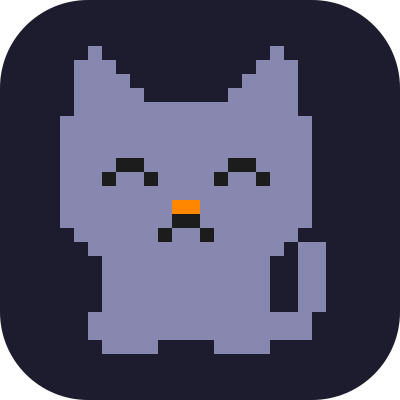
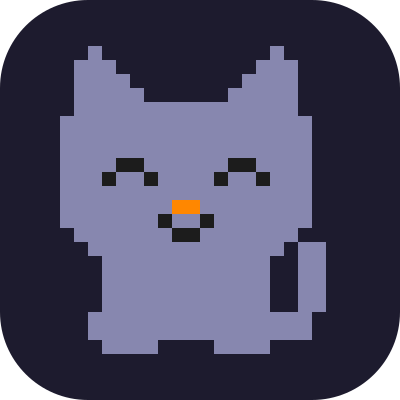
fix(brand): the cat was frowning
Rows count downwards, so a smile puts its corners on the upper row. The two
mouths were defined the other way round.

Changed region(s): [[0.39, 0.51, 0.54, 0.63]]

diff --git a/cmd/deja/statscard.go b/cmd/deja/statscard.go
@@ -39,7 +39,7 @@ func renderStatsCard(r stats.Report) string {
 	b.WriteString(`<g font-family="` + statsCardFont + `" fill="#d7f5e2">` + "\n")
 	// the cat from assets/logo.svg, then the wordmark. Pixel rects rather than
 	// a scaled drawing: the mark is the same 24x22 grid wherever it appears.
-	b.WriteString(`<g transform="translate(36,25) scale(1.15)"><g fill="#8787af">  <rect x="4" y="0" width="1" height="1"/>  <rect x="17" y="0" width="1" height="1"/>  <rect x="3" y="1" width="3" height="1"/>  <rect x="16" y="1" width="3" height="1"/>  <rect x="3" y="2" width="4" height="1"/>  <rect x="15" y="2" width="4" height="1"/>  <rect x="3" y="3" width="5" height="1"/>  <rect x="14" y="3" width="5" height="1"/>  <rect x="3" y="4" width="16" height="1"/>  <rect x="2" y="5" width="18" height="1"/>  <rect x="2" y="6" width="18" height="1"/>  <rect x="2" y="7" width="18" height="1"/>  <rect x="2" y="8" width="4" height="1"/>  <rect x="8" y="8" width="6" height="1"/>  <rect x="16" y="8" width="4" height="1"/>  <rect x="2" y="9" width="3" height="1"/>  <rect x="6" y="9" width="2" height="1"/>  <rect x="9" y="9" width="4" height="1"/>  <rect x="14" y="9" width="2" height="1"/>  <rect x="17" y="9" width="3" height="1"/>  <rect x="2" y="10" width="18" height="1"/>  <rect x="2" y="11" width="8" height="1"/>  <rect x="12" y="11" width="8" height="1"/>  <rect x="2" y="12" width="8" height="1"/>  <rect x="12" y="12" width="8" height="1"/>  <rect x="3" y="13" width="6" height="1"/>  <rect x="10" y="13" width="2" height="1"/>  <rect x="13" y="13" width="6" height="1"/>  <rect x="4" y="14" width="14" height="1"/>  <rect x="19" y="14" width="2" height="1"/>  <rect x="5" y="15" width="12" height="1"/>  <rect x="19" y="15" width="2" height="1"/>  <rect x="5" y="16" width="12" height="1"/>  <rect x="19" y="16" width="2" height="1"/>  <rect x="5" y="17" width="12" height="1"/>  <rect x="19" y="17" width="2" height="1"/>  <rect x="5" y="18" width="12" height="1"/>  <rect x="19" y="18" width="2" height="1"/>  <rect x="4" y="19" width="16" height="1"/>  <rect x="4" y="20" width="16" height="1"/>  <rect x="5" y="21" width="4" height="1"/>  <rect x="13" y="21" width="4" height="1"/></g><g fill="#1c1c1c">  <rect x="6" y="8" width="2" height="1"/>  <rect x="14" y="8" width="2" height="1"/>  <rect x="5" y="9" width="1" height="1"/>  <rect x="8" y="9" width="1" height="1"/>  <rect x="13" y="9" width="1" height="1"/>  <rect x="16" y="9" width="1" height="1"/>  <rect x="10" y="12" width="2" height="1"/>  <rect x="9" y="13" width="1" height="1"/>  <rect x="12" y="13" width="1" height="1"/></g><g fill="#ff8700">  <rect x="10" y="11" width="2" height="1"/></g></g>` + "\n")
+	b.WriteString(`<g transform="translate(36,25) scale(1.15)"><g fill="#8787af">  <rect x="4" y="0" width="1" height="1"/>  <rect x="17" y="0" width="1" height="1"/>  <rect x="3" y="1" width="3" height="1"/>  <rect x="16" y="1" width="3" height="1"/>  <rect x="3" y="2" width="4" height="1"/>  <rect x="15" y="2" width="4" height="1"/>  <rect x="3" y="3" width="5" height="1"/>  <rect x="14" y="3" width="5" height="1"/>  <rect x="3" y="4" width="16" height="1"/>  <rect x="2" y="5" width="18" height="1"/>  <rect x="2" y="6" width="18" height="1"/>  <rect x="2" y="7" width="18" height="1"/>  <rect x="2" y="8" width="4" height="1"/>  <rect x="8" y="8" width="6" height="1"/>  <rect x="16" y="8" width="4" height="1"/>  <rect x="2" y="9" width="3" height="1"/>  <rect x="6" y="9" width="2" height="1"/>  <rect x="9" y="9" width="4" height="1"/>  <rect x="14" y="9" width="2" height="1"/>  <rect x="17" y="9" width="3" height="1"/>  <rect x="2" y="10" width="18" height="1"/>  <rect x="2" y="11" width="8" height="1"/>  <rect x="12" y="11" width="8" height="1"/>  <rect x="2" y="12" width="7" height="1"/>  <rect x="10" y="12" width="2" height="1"/>  <rect x="13" y="12" width="7" height="1"/>  <rect x="3" y="13" width="7" height="1"/>  <rect x="12" y="13" width="7" height="1"/>  <rect x="4" y="14" width="14" height="1"/>  <rect x="19" y="14" width="2" height="1"/>  <rect x="5" y="15" width="12" height="1"/>  <rect x="19" y="15" width="2" height="1"/>  <rect x="5" y="16" width="12" height="1"/>  <rect x="19" y="16" width="2" height="1"/>  <rect x="5" y="17" width="12" height="1"/>  <rect x="19" y="17" width="2" height="1"/>  <rect x="5" y="18" width="12" height="1"/>  <rect x="19" y="18" width="2" height="1"/>  <rect x="4" y="19" width="16" height="1"/>  <rect x="4" y="20" width="16" height="1"/>  <rect x="5" y="21" width="4" height="1"/>  <rect x="13" y="21" width="4" height="1"/></g><g fill="#1c1c1c">  <rect x="6" y="8" width="2" height="1"/>  <rect x="14" y="8" width="2" height="1"/>  <rect x="5" y="9" width="1" height="1"/>  <rect x="8" y="9" width="1" height="1"/>  <rect x="13" y="9" width="1" height="1"/>  <rect x="16" y="9" width="1" height="1"/>  <rect x="9" y="12" width="1" height="1"/>  <rect x="12" y="12" width="1" height="1"/>  <rect x="10" y="13" width="2" height="1"/></g><g fill="#ff8700">  <rect x="10" y="11" width="2" height="1"/></g></g>` + "\n")
 	cardText(&b, 70, 48, 15, "700", "deja-vu", "#4af08b", "letter-spacing=\"0.5\"")
 	cardText(&b, 145, 48, 13, "400", "· agent history", "#5d8a6e")
 	cardText(&b, 760, 48, 13, "400", valueOrDash(r.DateRange.Start)+" – "+valueOrDash(r.DateRange.End), "#5d8a6e", "text-anchor=\"end\"")

diff --git a/cmd/deja/logo.go b/cmd/deja/logo.go
@@ -31,7 +31,7 @@ var catArt = []string{
 	"  \x1b[38;5;103m██████████████████\x1b[0m    \x1b[0m",
 	"  \x1b[38;5;103m███\x1b[38;5;103m\x1b[48;5;234m▀\x1b[0m\x1b[38;5;234m\x1b[48;5;103m▀\x1b[0m\x1b[38;5;234m\x1b[48;5;103m▀\x1b[0m\x1b[38;5;103m\x1b[48;5;234m▀\x1b[0m\x1b[38;5;103m████\x1b[38;5;103m\x1b[48;5;234m▀\x1b[0m\x1b[38;5;234m\x1b[48;5;103m▀\x1b[0m\x1b[38;5;234m\x1b[48;5;103m▀\x1b[0m\x1b[38;5;103m\x1b[48;5;234m▀\x1b[0m\x1b[38;5;103m███\x1b[0m    \x1b[0m",
 	"  \x1b[38;5;103m████████\x1b[38;5;103m\x1b[48;5;208m▀\x1b[0m\x1b[38;5;103m\x1b[48;5;208m▀\x1b[0m\x1b[38;5;103m████████\x1b[0m    \x1b[0m",
-	"  \x1b[38;5;103m▀██████\x1b[38;5;103m\x1b[48;5;234m▀\x1b[0m\x1b[38;5;234m\x1b[48;5;103m▀\x1b[0m\x1b[38;5;234m\x1b[48;5;103m▀\x1b[0m\x1b[38;5;103m\x1b[48;5;234m▀\x1b[0m\x1b[38;5;103m██████▀\x1b[0m    \x1b[0m",
+	"  \x1b[38;5;103m▀██████\x1b[38;5;234m\x1b[48;5;103m▀\x1b[0m\x1b[38;5;103m\x1b[48;5;234m▀\x1b[0m\x1b[38;5;103m\x1b[48;5;234m▀\x1b[0m\x1b[38;5;234m\x1b[48;5;103m▀\x1b[0m\x1b[38;5;103m██████▀\x1b[0m    \x1b[0m",
 	"    \x1b[38;5;103m▀████████████▀\x1b[0m \x1b[38;5;103m██\x1b[0m   \x1b[0m",
 	"     \x1b[38;5;103m████████████\x1b[0m  \x1b[38;5;103m██\x1b[0m   \x1b[0m",
 	"    \x1b[38;5;103m▄████████████▄▄█▀\x1b[0m   \x1b[0m",
